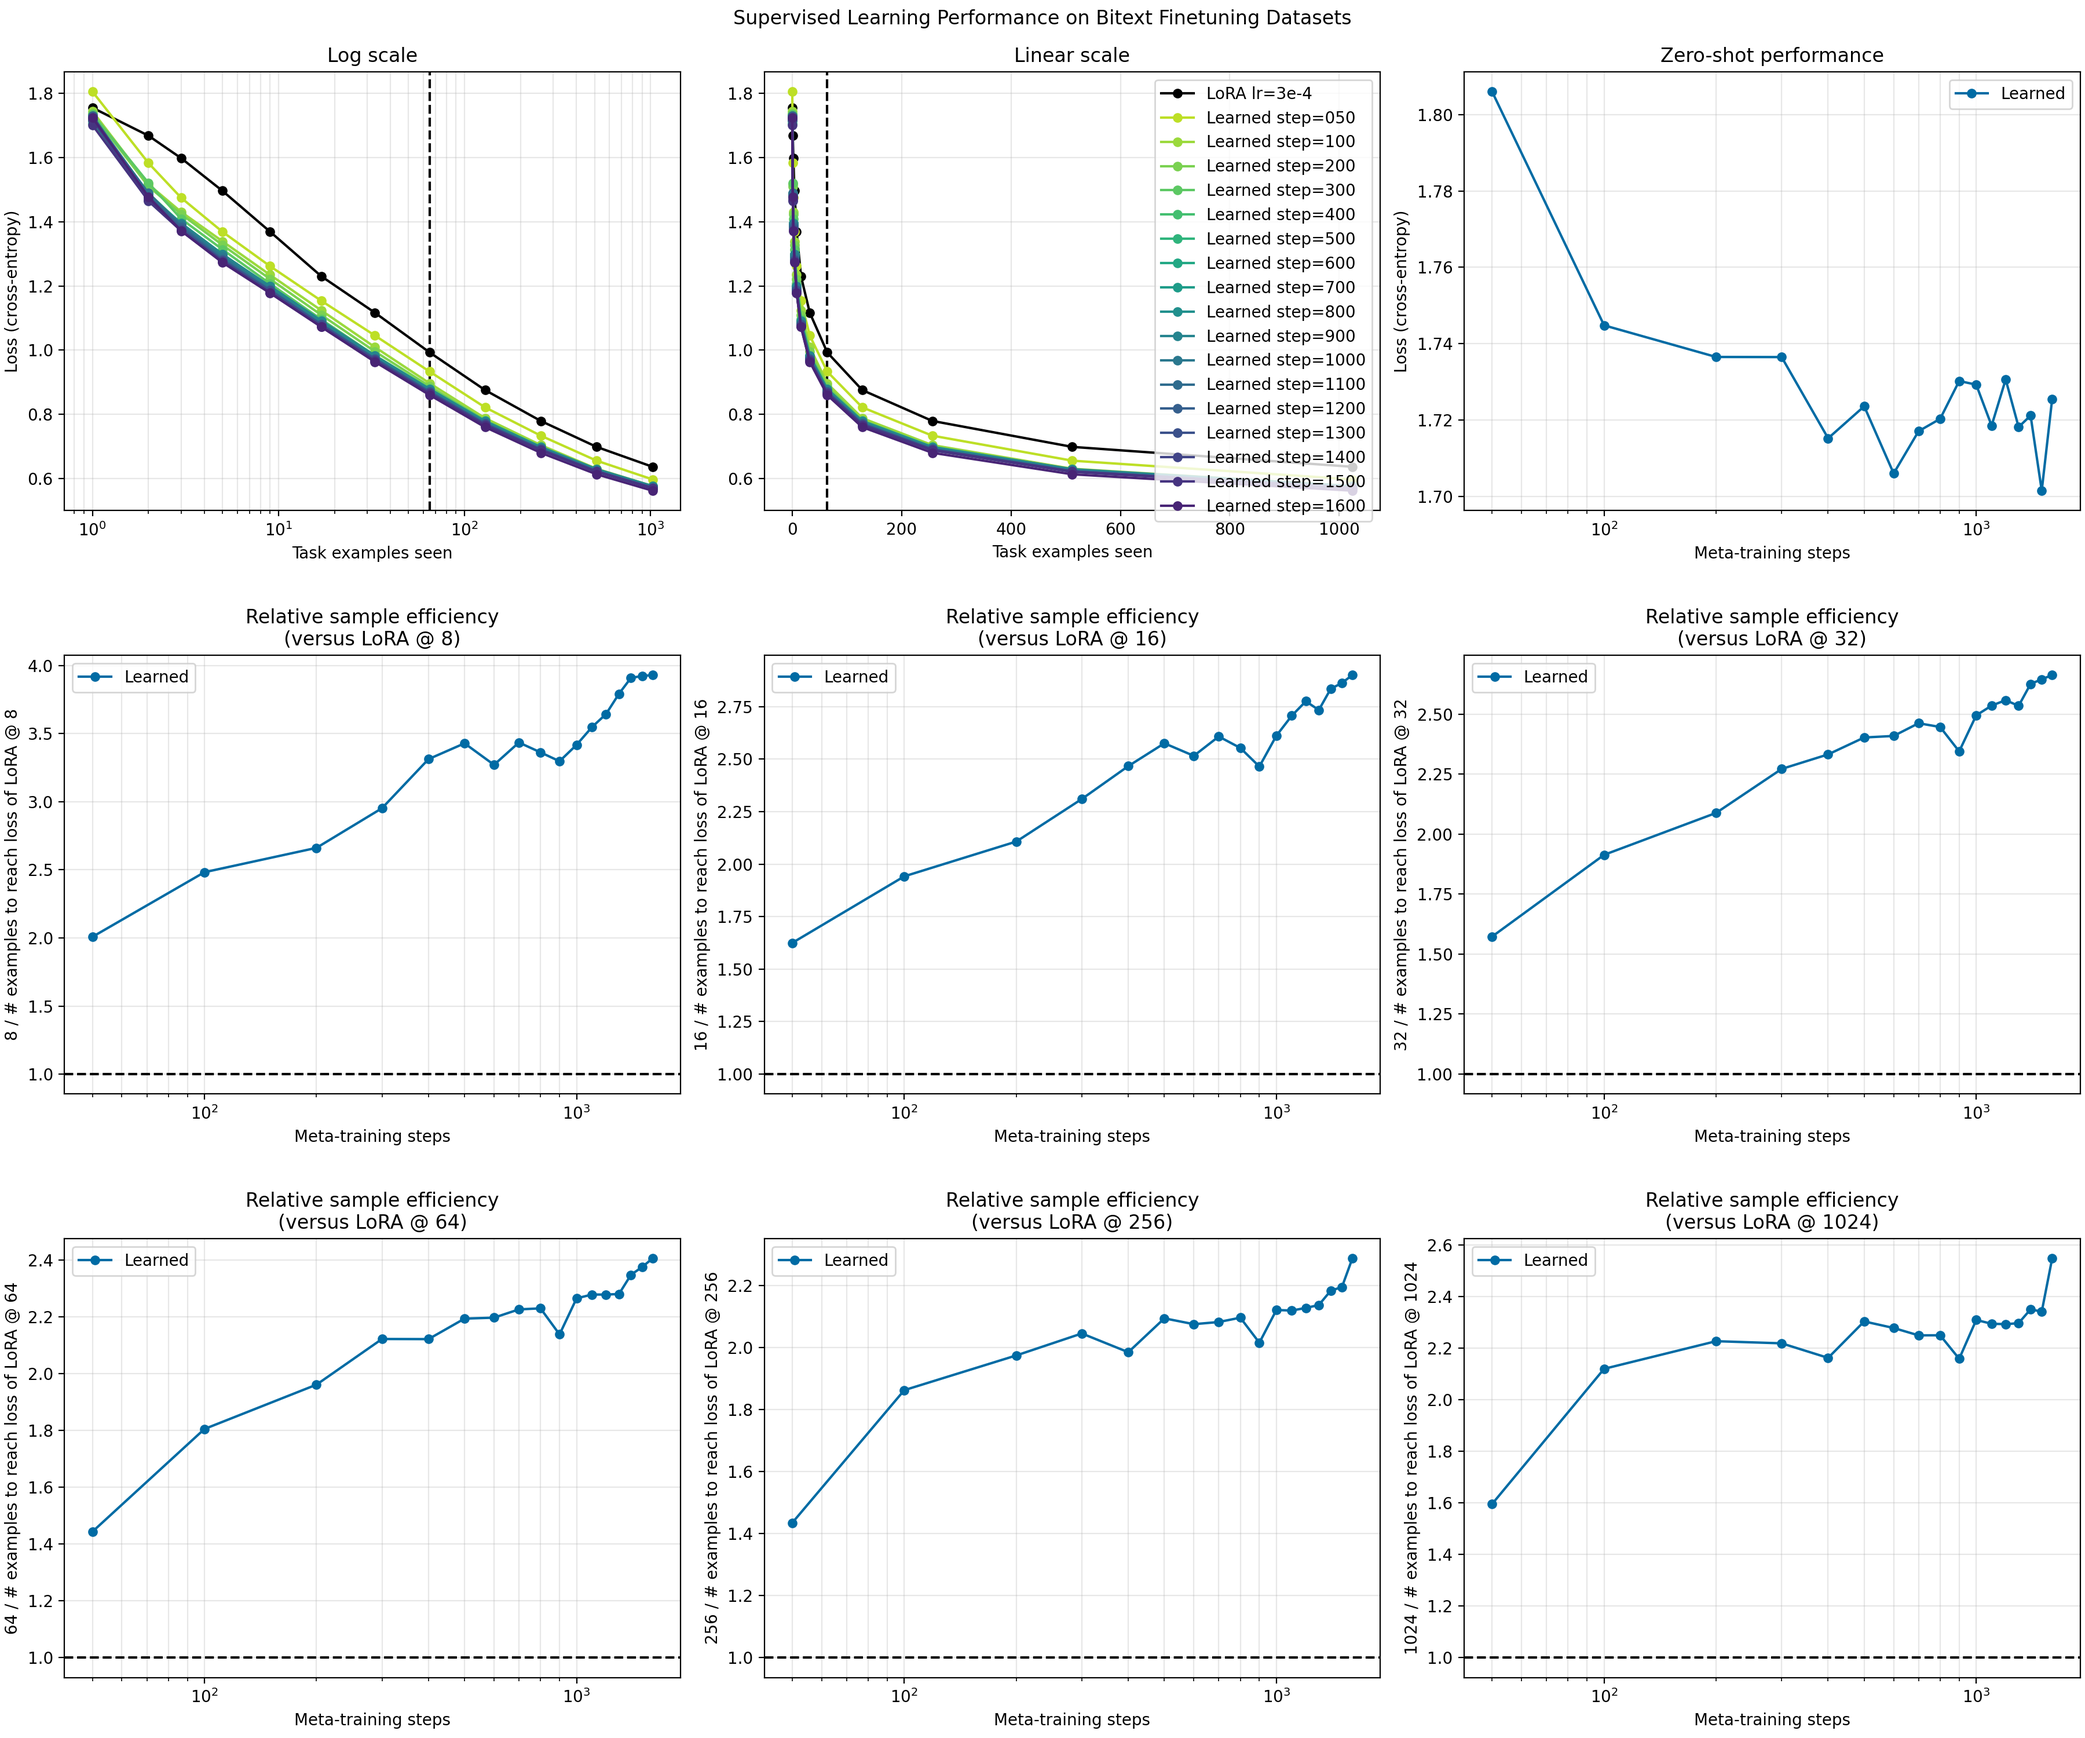
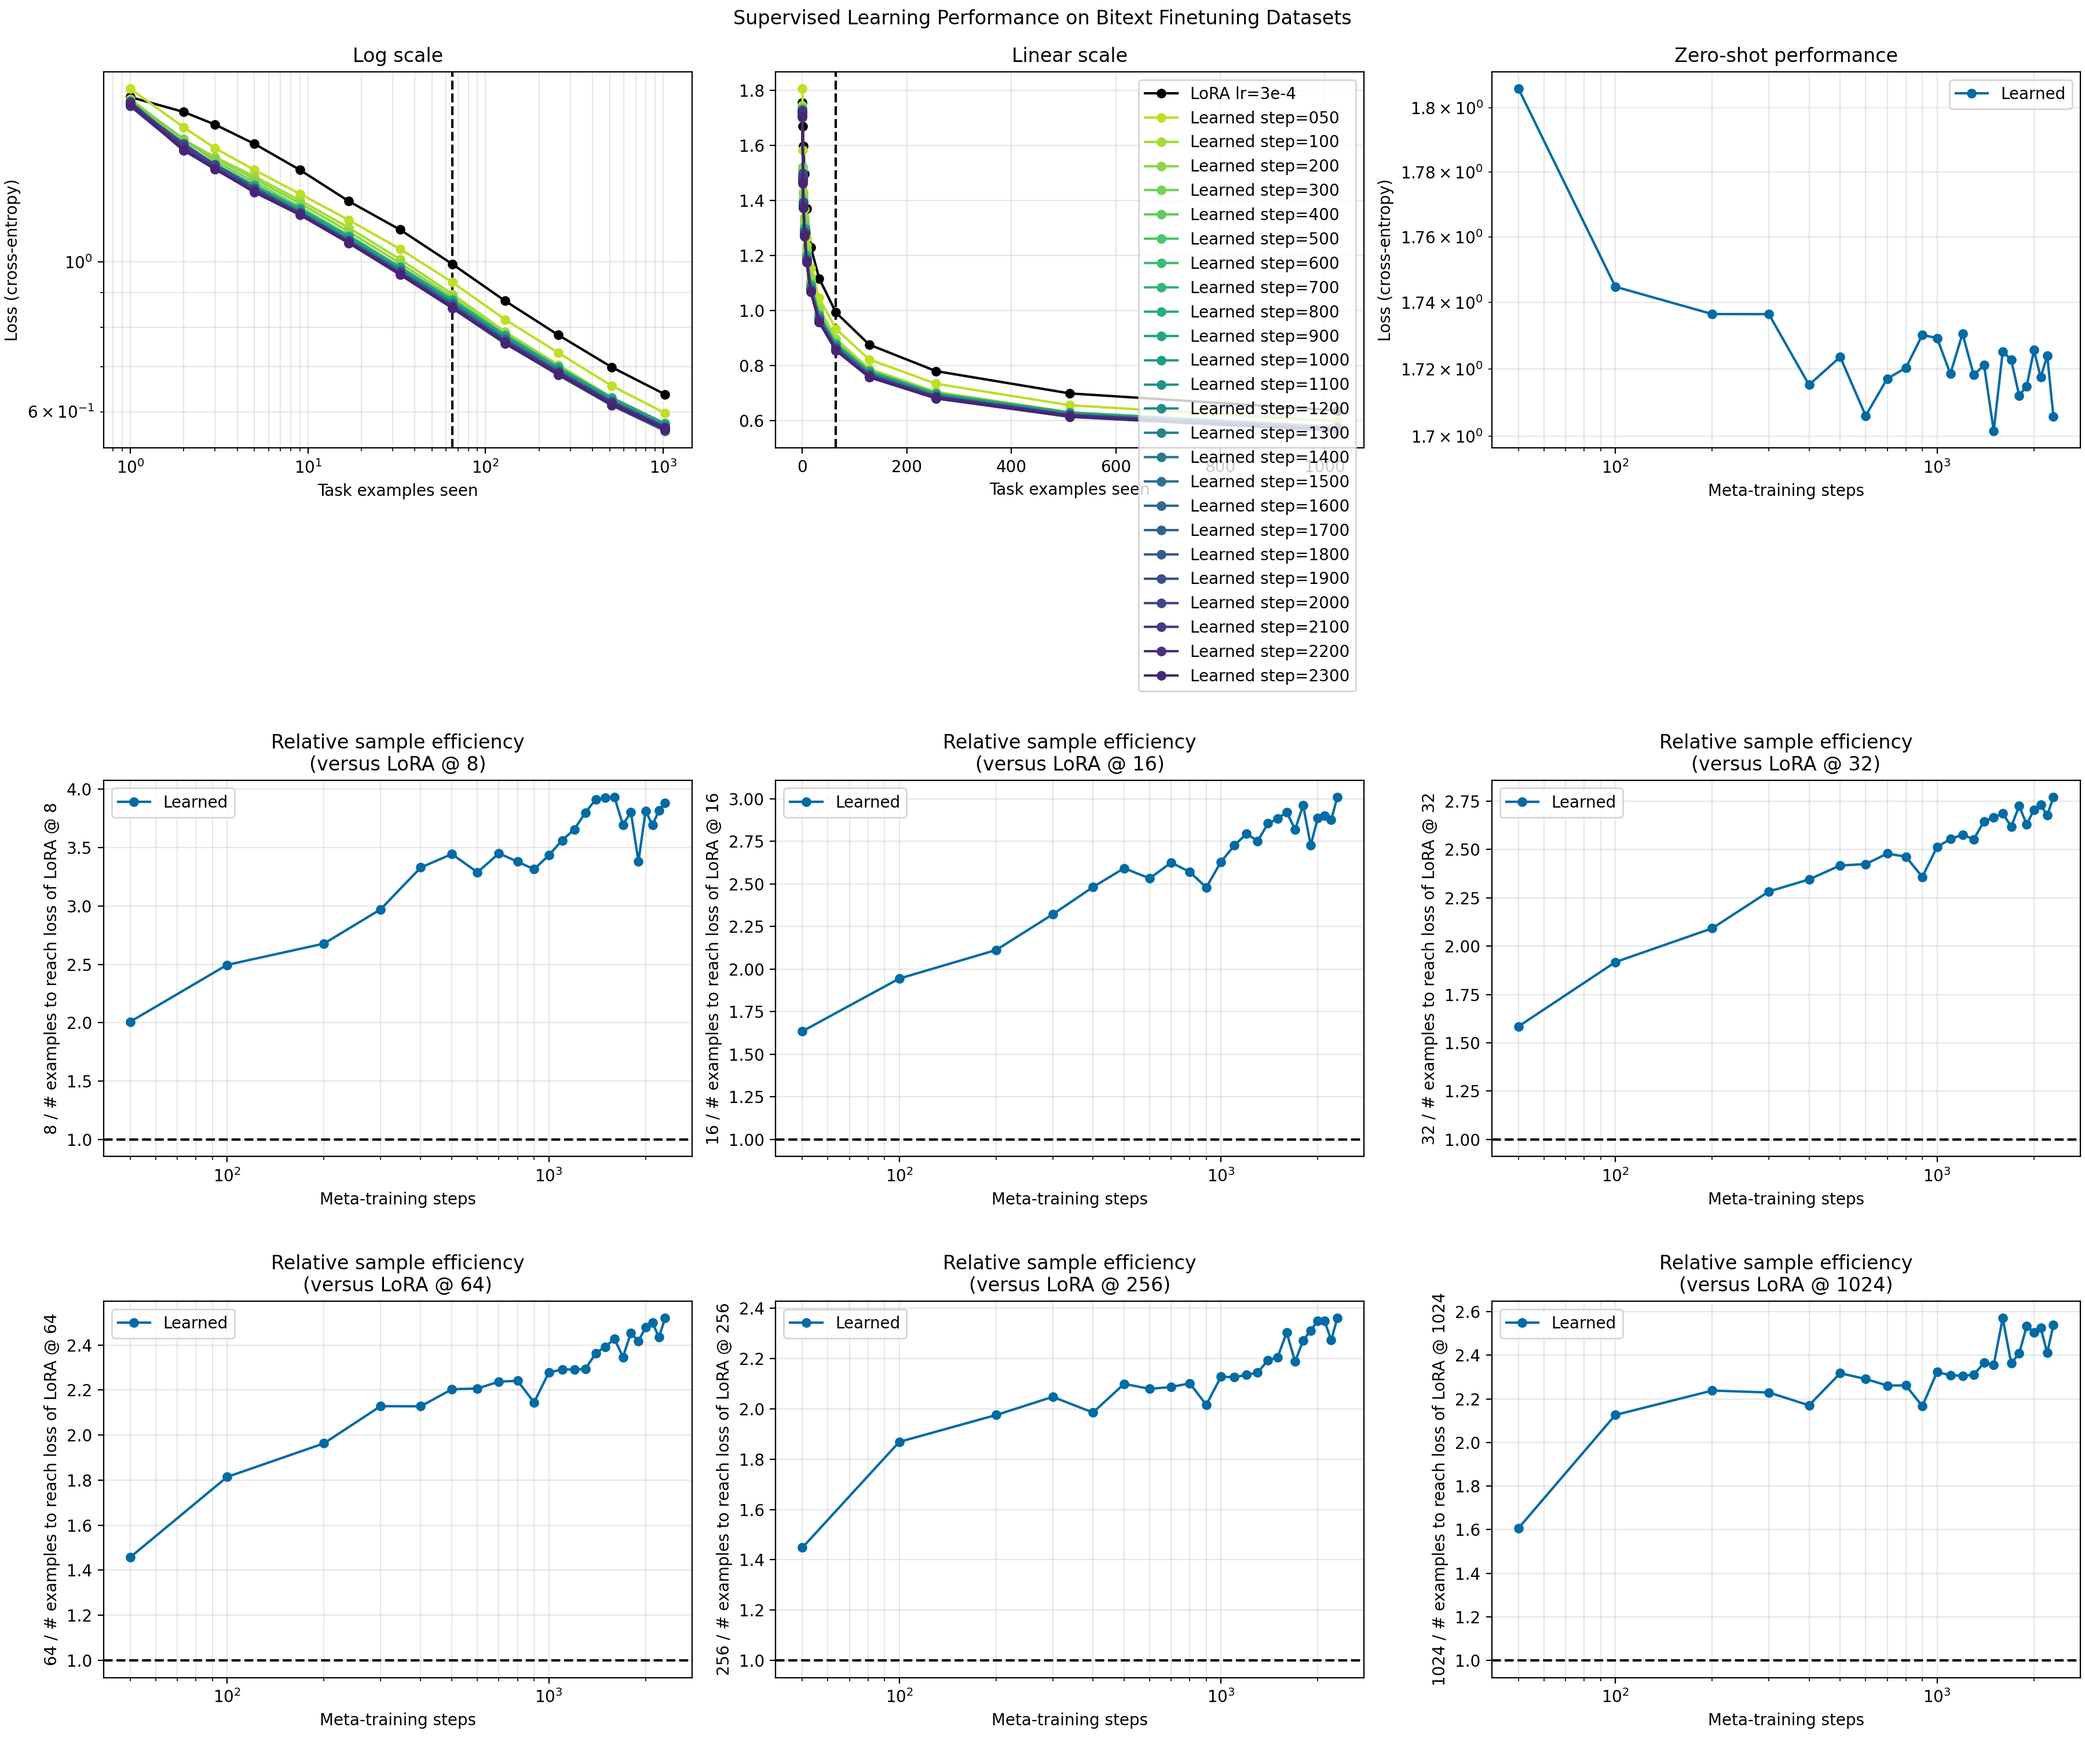
plotting

diff --git a/src/scripts/plot_icl.py b/src/scripts/plot_icl.py
@@ -26,7 +26,7 @@ RUNS = [
     (
         "aklein4--horizon-v2_piano-scaled",
         "Learned",
-        [50] + [100*x for x in range(1, 17)]
+        [50] + [100*x for x in range(1, 24)]
     ),
 ]
 
@@ -49,7 +49,7 @@ def load_scores(path: str, step: int | None, metric: str) -> tuple[list[int], li
 
 
 def y_at_x(x: list[int], y: list[float], target: float) -> float:
-    """Interpolate y linearly in log(x + 1)."""
+    """Interpolate y linearly in log-log space, using log(x + 1)."""
     if not x or target < x[0] or target > x[-1]:
         raise ValueError(f"x={target:g} is outside [{x[0]}, {x[-1]}]")
     for index in range(len(x) - 1):
@@ -61,14 +61,17 @@ def y_at_x(x: list[int], y: list[float], target: float) -> float:
             fraction = (math.log1p(target) - math.log1p(x[index])) / (
                 math.log1p(x[index + 1]) - math.log1p(x[index])
             )
-            return y[index] + fraction * (y[index + 1] - y[index])
+            return math.exp(
+                math.log(y[index])
+                + fraction * (math.log(y[index + 1]) - math.log(y[index]))
+            )
     if len(x) == 1 and target == x[0]:
         return y[0]
     raise ValueError(f"Could not interpolate x={target:g}")
 
 
 def x_at_y(x: list[int], y: list[float], target: float) -> float:
-    """Interpolate x for a target y linearly in log(x + 1)."""
+    """Interpolate x for a target y in log-log space, using log(x + 1)."""
     for index in range(len(x) - 1):
         left, right = y[index], y[index + 1]
         if not min(left, right) <= target <= max(left, right):
@@ -77,7 +80,9 @@ def x_at_y(x: list[int], y: list[float], target: float) -> float:
             return float(x[index])
         if target == right:
             return float(x[index + 1])
-        fraction = (target - left) / (right - left)
+        fraction = (math.log(target) - math.log(left)) / (
+            math.log(right) - math.log(left)
+        )
         return math.expm1(
             math.log1p(x[index])
             + fraction * (math.log1p(x[index + 1]) - math.log1p(x[index]))
@@ -121,7 +126,6 @@ def make_figure(metric: str, max_examples: int | None, ylabel: str, title: str):
     fig, axes = plt.subplots(3, 3, figsize=(18, 15), constrained_layout=True)
     fig.set_constrained_layout_pads(h_pad=0.08, hspace=0.08)
     axes = axes.flatten()
-    axes[1].sharey(axes[0])
     runs = load_runs(metric, max_examples)
 
     axes[0].axvline(65, color="black", linestyle="--")
@@ -132,6 +136,7 @@ def make_figure(metric: str, max_examples: int | None, ylabel: str, title: str):
         axes[1].plot(x, y, marker=".", linestyle=line_style, markersize=10,
                      label=label, color=color)
     axes[0].set_xscale("log")
+    axes[0].set_yscale("log")
     axes[0].set_title("Log scale")
     axes[1].set_title("Linear scale")
     axes[1].legend()
@@ -147,7 +152,7 @@ def make_figure(metric: str, max_examples: int | None, ylabel: str, title: str):
             axis.plot([p[0] for p in points], [p[2][reference] for p in points],
                       ".-", markersize=10, label=name, color=color)
 
-    axes[2].set(xscale="log", title="Zero-shot performance",
+    axes[2].set(xscale="log", yscale="log", title="Zero-shot performance",
                 xlabel="Meta-training steps", ylabel=ylabel)
     axes[2].grid(True, which="both", alpha=0.3)
     if summaries:

diff --git a/src/scripts/plot_wandb_icl.py b/src/scripts/plot_wandb_icl.py
@@ -71,22 +71,26 @@ def range_curves(frame, numbered, ranges):
 
 
 def y_at_x(x, y, target):
-    valid = np.isfinite(x) & np.isfinite(y)
+    valid = np.isfinite(x) & np.isfinite(y) & (y > 0)
     x, y = x[valid], y[valid]
     if target < x.min() or target > x.max():
         raise ValueError(f"c'={target:g} is outside [{x.min():g}, {x.max():g}]")
-    return float(np.interp(math.log1p(target), np.log1p(x), y))
+    return float(np.exp(
+        np.interp(math.log1p(target), np.log1p(x), np.log(y))
+    ))
 
 
 def x_at_y(x, y, target):
-    valid = np.isfinite(x) & np.isfinite(y)
+    valid = np.isfinite(x) & np.isfinite(y) & (y > 0)
     x, y = x[valid], y[valid]
     for index in range(len(x) - 1):
         left, right = y[index], y[index + 1]
         if min(left, right) <= target <= max(left, right):
             if left == right:
                 return float(x[index])
-            fraction = (target - left) / (right - left)
+            fraction = (math.log(target) - math.log(left)) / (
+                math.log(right) - math.log(left)
+            )
             return float(np.expm1(
                 np.log1p(x[index])
                 + fraction * (np.log1p(x[index + 1]) - np.log1p(x[index]))
@@ -230,7 +234,8 @@ def make_figure(curves, fit, run_name):
         label = f"steps {curve['start']}-{curve['end']}"
         axes[0].plot(curve["episodes"], curve["losses"], color=color, label=label)
         axes[1].plot(curve["episodes"], curve["losses"], color=color, label=label)
-    axes[0].set(xscale="log", title="Log scale", xlabel="Task examples seen", ylabel="Loss")
+    axes[0].set(xscale="log", yscale="log", title="Log scale",
+                xlabel="Task examples seen", ylabel="Loss")
     axes[1].set(title="Linear scale", xlabel="Task examples seen")
     axes[1].legend(fontsize="small", ncols=2)
 
@@ -241,7 +246,7 @@ def make_figure(curves, fit, run_name):
         [y_at_x(curve["episodes"], curve["losses"], 1) for curve in curves],
         ".-", markersize=10,
     )
-    axes[2].set(xscale="log", title="First-example performance",
+    axes[2].set(xscale="log", yscale="log", title="First-example performance",
                 xlabel="Meta-training step", ylabel="Loss")
 
     smooth_steps = np.geomspace(

diff --git a/src/scripts/plot_acc.py b/src/scripts/plot_acc.py
@@ -58,7 +58,7 @@ def load_scores(path: str, step: int | None, metric: str) -> tuple[list[int], li
 
 
 def y_at_x(x: list[int], y: list[float], target: float) -> float:
-    """Interpolate y linearly in log(x + 1)."""
+    """Interpolate y linearly in log-log space, using log(x + 1)."""
     if not x or target < x[0] or target > x[-1]:
         raise ValueError(f"x={target:g} is outside [{x[0]}, {x[-1]}]")
     for index in range(len(x) - 1):
@@ -70,14 +70,17 @@ def y_at_x(x: list[int], y: list[float], target: float) -> float:
             fraction = (math.log1p(target) - math.log1p(x[index])) / (
                 math.log1p(x[index + 1]) - math.log1p(x[index])
             )
-            return y[index] + fraction * (y[index + 1] - y[index])
+            return math.exp(
+                math.log(y[index])
+                + fraction * (math.log(y[index + 1]) - math.log(y[index]))
+            )
     if len(x) == 1 and target == x[0]:
         return y[0]
     raise ValueError(f"Could not interpolate x={target:g}")
 
 
 def x_at_y(x: list[int], y: list[float], target: float) -> float:
-    """Interpolate x for a target y linearly in log(x + 1)."""
+    """Interpolate x for a target y in log-log space, using log(x + 1)."""
     for index in range(len(x) - 1):
         left, right = y[index], y[index + 1]
         if not min(left, right) <= target <= max(left, right):
@@ -86,7 +89,9 @@ def x_at_y(x: list[int], y: list[float], target: float) -> float:
             return float(x[index])
         if target == right:
             return float(x[index + 1])
-        fraction = (target - left) / (right - left)
+        fraction = (math.log(target) - math.log(left)) / (
+            math.log(right) - math.log(left)
+        )
         return math.expm1(
             math.log1p(x[index])
             + fraction * (math.log1p(x[index + 1]) - math.log1p(x[index]))

diff --git a/src/scripts/plot_generalized_scaling_laws.py b/src/scripts/plot_generalized_scaling_laws.py
@@ -17,7 +17,7 @@ DEFAULT_META_RUN = RESULTS_DIR / "aklein4--horizon-v2_piano-scaled"
 DEFAULT_LORA_RUN = RESULTS_DIR / "fresh/oloop-lora-llama3p2-1b-pre"
 DEFAULT_OUTPUT_DIR = REPO_ROOT / "figures/scaling_laws"
 REFERENCE_STEP = 50.0
-MAX_FIT_STEP = 1600
+MAX_FIT_STEP = 2300
 MAX_EXAMPLES = 64
 EXAMPLE_LEVELS = (0, 1, 2, 4, 8, 16, 32, 64)
 EFFICIENCY_LEVELS = (8, 16, 32, 64)
@@ -338,6 +338,7 @@ def plot_loss_fits(
                 zorder=2,
             )
         axis.set_xscale("log")
+        axis.set_yscale("log")
         axis.set_xlim(REFERENCE_STEP / 1.12, max_step * 1.12)
         axis.set_title(f"num_examples = {num_examples}")
         axis.grid(True, which="both", alpha=0.3)
@@ -354,7 +355,7 @@ def plot_loss_fits(
 
 
 def examples_at_loss(examples: list[int], losses: list[float], target: float) -> float:
-    """Interpolate the first observed crossing linearly in log(examples + 1)."""
+    """Interpolate the first observed crossing in log-log space."""
     for index in range(len(examples) - 1):
         left_loss, right_loss = losses[index : index + 2]
         if not min(left_loss, right_loss) <= target <= max(left_loss, right_loss):
@@ -363,7 +364,9 @@ def examples_at_loss(examples: list[int], losses: list[float], target: float) ->
             return float(examples[index])
         if target == right_loss:
             return float(examples[index + 1])
-        fraction = (target - left_loss) / (right_loss - left_loss)
+        fraction = (math.log(target) - math.log(left_loss)) / (
+            math.log(right_loss) - math.log(left_loss)
+        )
         return math.expm1(
             math.log1p(examples[index])
             + fraction

diff --git a/src/scripts/plot_icl_step_efficiency.py b/src/scripts/plot_icl_step_efficiency.py
@@ -45,7 +45,7 @@ def loss_at_n(examples: list[int], losses: list[float], target: int) -> float:
 
 
 def examples_at_loss(examples: list[int], losses: list[float], target: float) -> float:
-    """Find the first loss crossing, interpolating linearly in log(examples + 1)."""
+    """Find the first loss crossing in log-log space, using log(examples + 1)."""
     for index in range(len(examples) - 1):
         left_loss, right_loss = losses[index : index + 2]
         if not min(left_loss, right_loss) <= target <= max(left_loss, right_loss):
@@ -54,7 +54,9 @@ def examples_at_loss(examples: list[int], losses: list[float], target: float) ->
             return float(examples[index])
         if target == right_loss:
             return float(examples[index + 1])
-        fraction = (target - left_loss) / (right_loss - left_loss)
+        fraction = (math.log(target) - math.log(left_loss)) / (
+            math.log(right_loss) - math.log(left_loss)
+        )
         return math.expm1(
             math.log1p(examples[index])
             + fraction

diff --git a/src/scripts/two_panel_plot_icl.py b/src/scripts/two_panel_plot_icl.py
@@ -32,7 +32,7 @@ def load_scores(filename: str, metric: str) -> tuple[list[int], list[float]]:
 
 def make_figure(metric: str):
     fig, axes = plt.subplots(
-        1, 2, figsize=(12, 5), constrained_layout=True, sharey=True
+        1, 2, figsize=(12, 5), constrained_layout=True
     )
     colors = plt.get_cmap("viridis_r")([0.1, 0.28, 0.46, 0.64, 0.82])
 
@@ -43,7 +43,8 @@ def make_figure(metric: str):
         axes[1].plot(x, y, ".-", markersize=10, label=label, color=color)
 
     axes[0].axvline(65, color="black", linestyle="--")
-    axes[0].set(xscale="log", title="Log scale", ylabel="Loss (cross-entropy)")
+    axes[0].set(xscale="log", yscale="log", title="Log scale",
+                ylabel="Loss (cross-entropy)")
     axes[1].axvline(64, color="black", linestyle="--")
     axes[1].set_title("Linear scale")
     axes[1].legend()

diff --git a/src/scripts/two_panel_plot_single_lora_ablation.py b/src/scripts/two_panel_plot_single_lora_ablation.py
@@ -44,7 +44,7 @@ def plot_run(axes, filename: str, label: str, metric: str, color: str, **kwargs)
 
 def make_figure(metric: str):
     fig, axes = plt.subplots(
-        1, 2, figsize=(13, 5.5), constrained_layout=True, sharey=True
+        1, 2, figsize=(13, 5.5), constrained_layout=True
     )
 
     plot_run(
@@ -56,7 +56,8 @@ def make_figure(metric: str):
         plot_run(axes, filename, label, metric, color)
 
     axes[0].axvline(65, color="0.4", linestyle="--")
-    axes[0].set(xscale="log", title="Log scale", ylabel="Loss (cross-entropy)")
+    axes[0].set(xscale="log", yscale="log", title="Log scale",
+                ylabel="Loss (cross-entropy)")
     axes[1].axvline(64, color="0.4", linestyle="--")
     axes[1].set_title("Linear scale")
     axes[1].legend(ncol=2)

diff --git a/src/scripts/plot_icl_training_progress.py b/src/scripts/plot_icl_training_progress.py
@@ -69,6 +69,7 @@ def make_figure(run_dirs: list[Path]):
                     marker="o", label=label,
                 )
         axis.set_xscale("log")
+        axis.set_yscale("log")
         axis.set_title(f"num_examples = {num_examples}")
         axis.grid(True, which="both", alpha=0.3)
 
